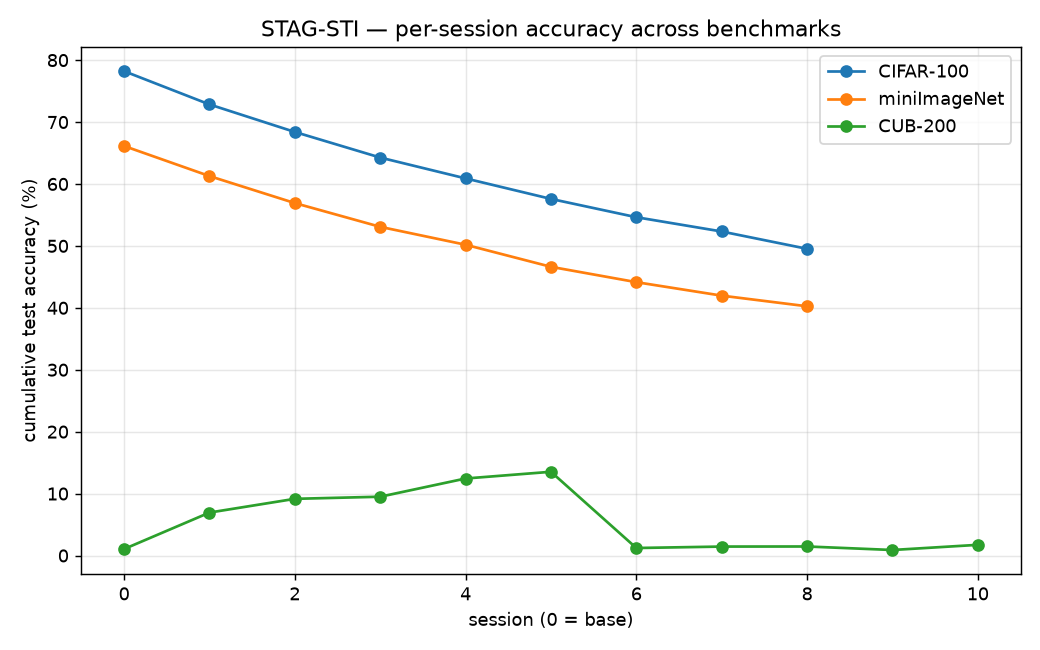
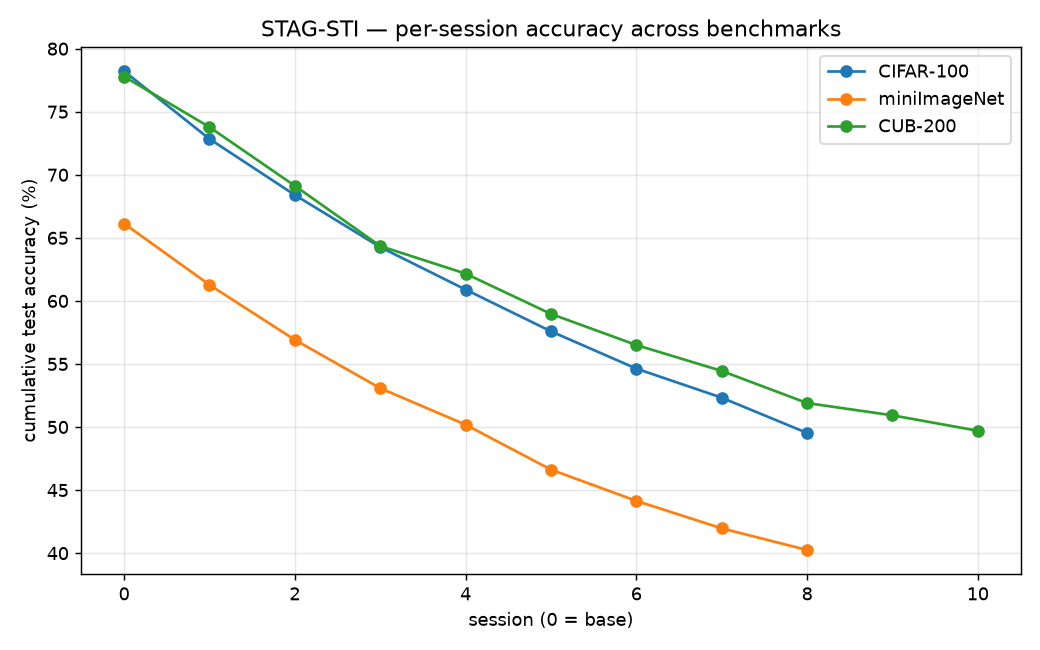
CUB-200 (rescored) result: base 77.79%, final 49.71%, PD 28.09, avg 60.88%, A_B 68.99%, A_N 30.85%, HM 42.64%
Auto-committed by the training orchestrator.

Claude-Session: https://claude.ai/code/session_01GDGJYxSeGz7wbgpdPrPcEm

diff --git a/results/REPORT.md b/results/REPORT.md
@@ -1,6 +1,6 @@
 # STAG-STI — Results & Analysis
 
-_Generated 2026-09-08 18:47 • auto-updated as runs complete._
+_Generated 2026-09-08 18:50 • auto-updated as runs complete._
 
 ## In-domain results
 
@@ -8,7 +8,7 @@ _Generated 2026-09-08 18:47 • auto-updated as runs complete._
 |---|---|---|---|---|---|---|---|
 | CIFAR-100 | 78.22 | 49.53 | 28.69 | 62.08 | 68.72 | 20.75 | 31.87 |
 | miniImageNet | 66.13 | 40.25 | 25.88 | 51.18 | 56.12 | 16.45 | 25.44 |
-| CUB-200 | 1.05 | 1.73 | -0.68 | 5.39 | 0.00 | 3.41 | 0.00 |
+| CUB-200 | 77.79 | 49.71 | 28.09 | 60.88 | 68.99 | 30.85 | 42.64 |
 
 ## Cross-domain (miniImageNet → CUB)
 
@@ -21,7 +21,7 @@ _Generated 2026-09-08 18:47 • auto-updated as runs complete._
 | FACT | TODO | TODO | 56.94 |
 | SAVC | TODO | TODO | 62.50 |
 | CLOSER | TODO | TODO | 63.58 |
-| **STAG-STI (ours)** | **49.53** | **40.25** | **1.73** |
+| **STAG-STI (ours)** | **49.53** | **40.25** | **49.71** |
 
 _CUB-200 baselines from the Review-1 deck; CIFAR-100 / miniImageNet baselines are TODO — fill from the source papers._
 
